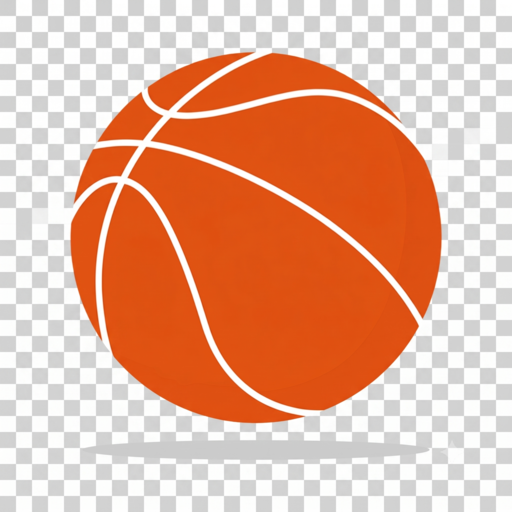
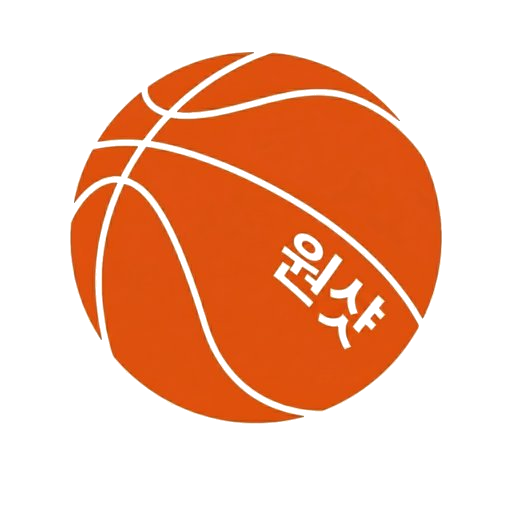
512 로고 배경 투명, sw js 변경

diff --git a/public/sw.js b/public/sw.js
@@ -31,5 +31,7 @@ self.addEventListener("notificationclick", (event) => {
 });
 
 self.addEventListener("fetch", (event) => {
-  event.respondWith(fetch(event.request));
+  event.respondWith(
+    fetch(event.request).catch(() => new Response("", { status: 503 }))
+  );
 });
